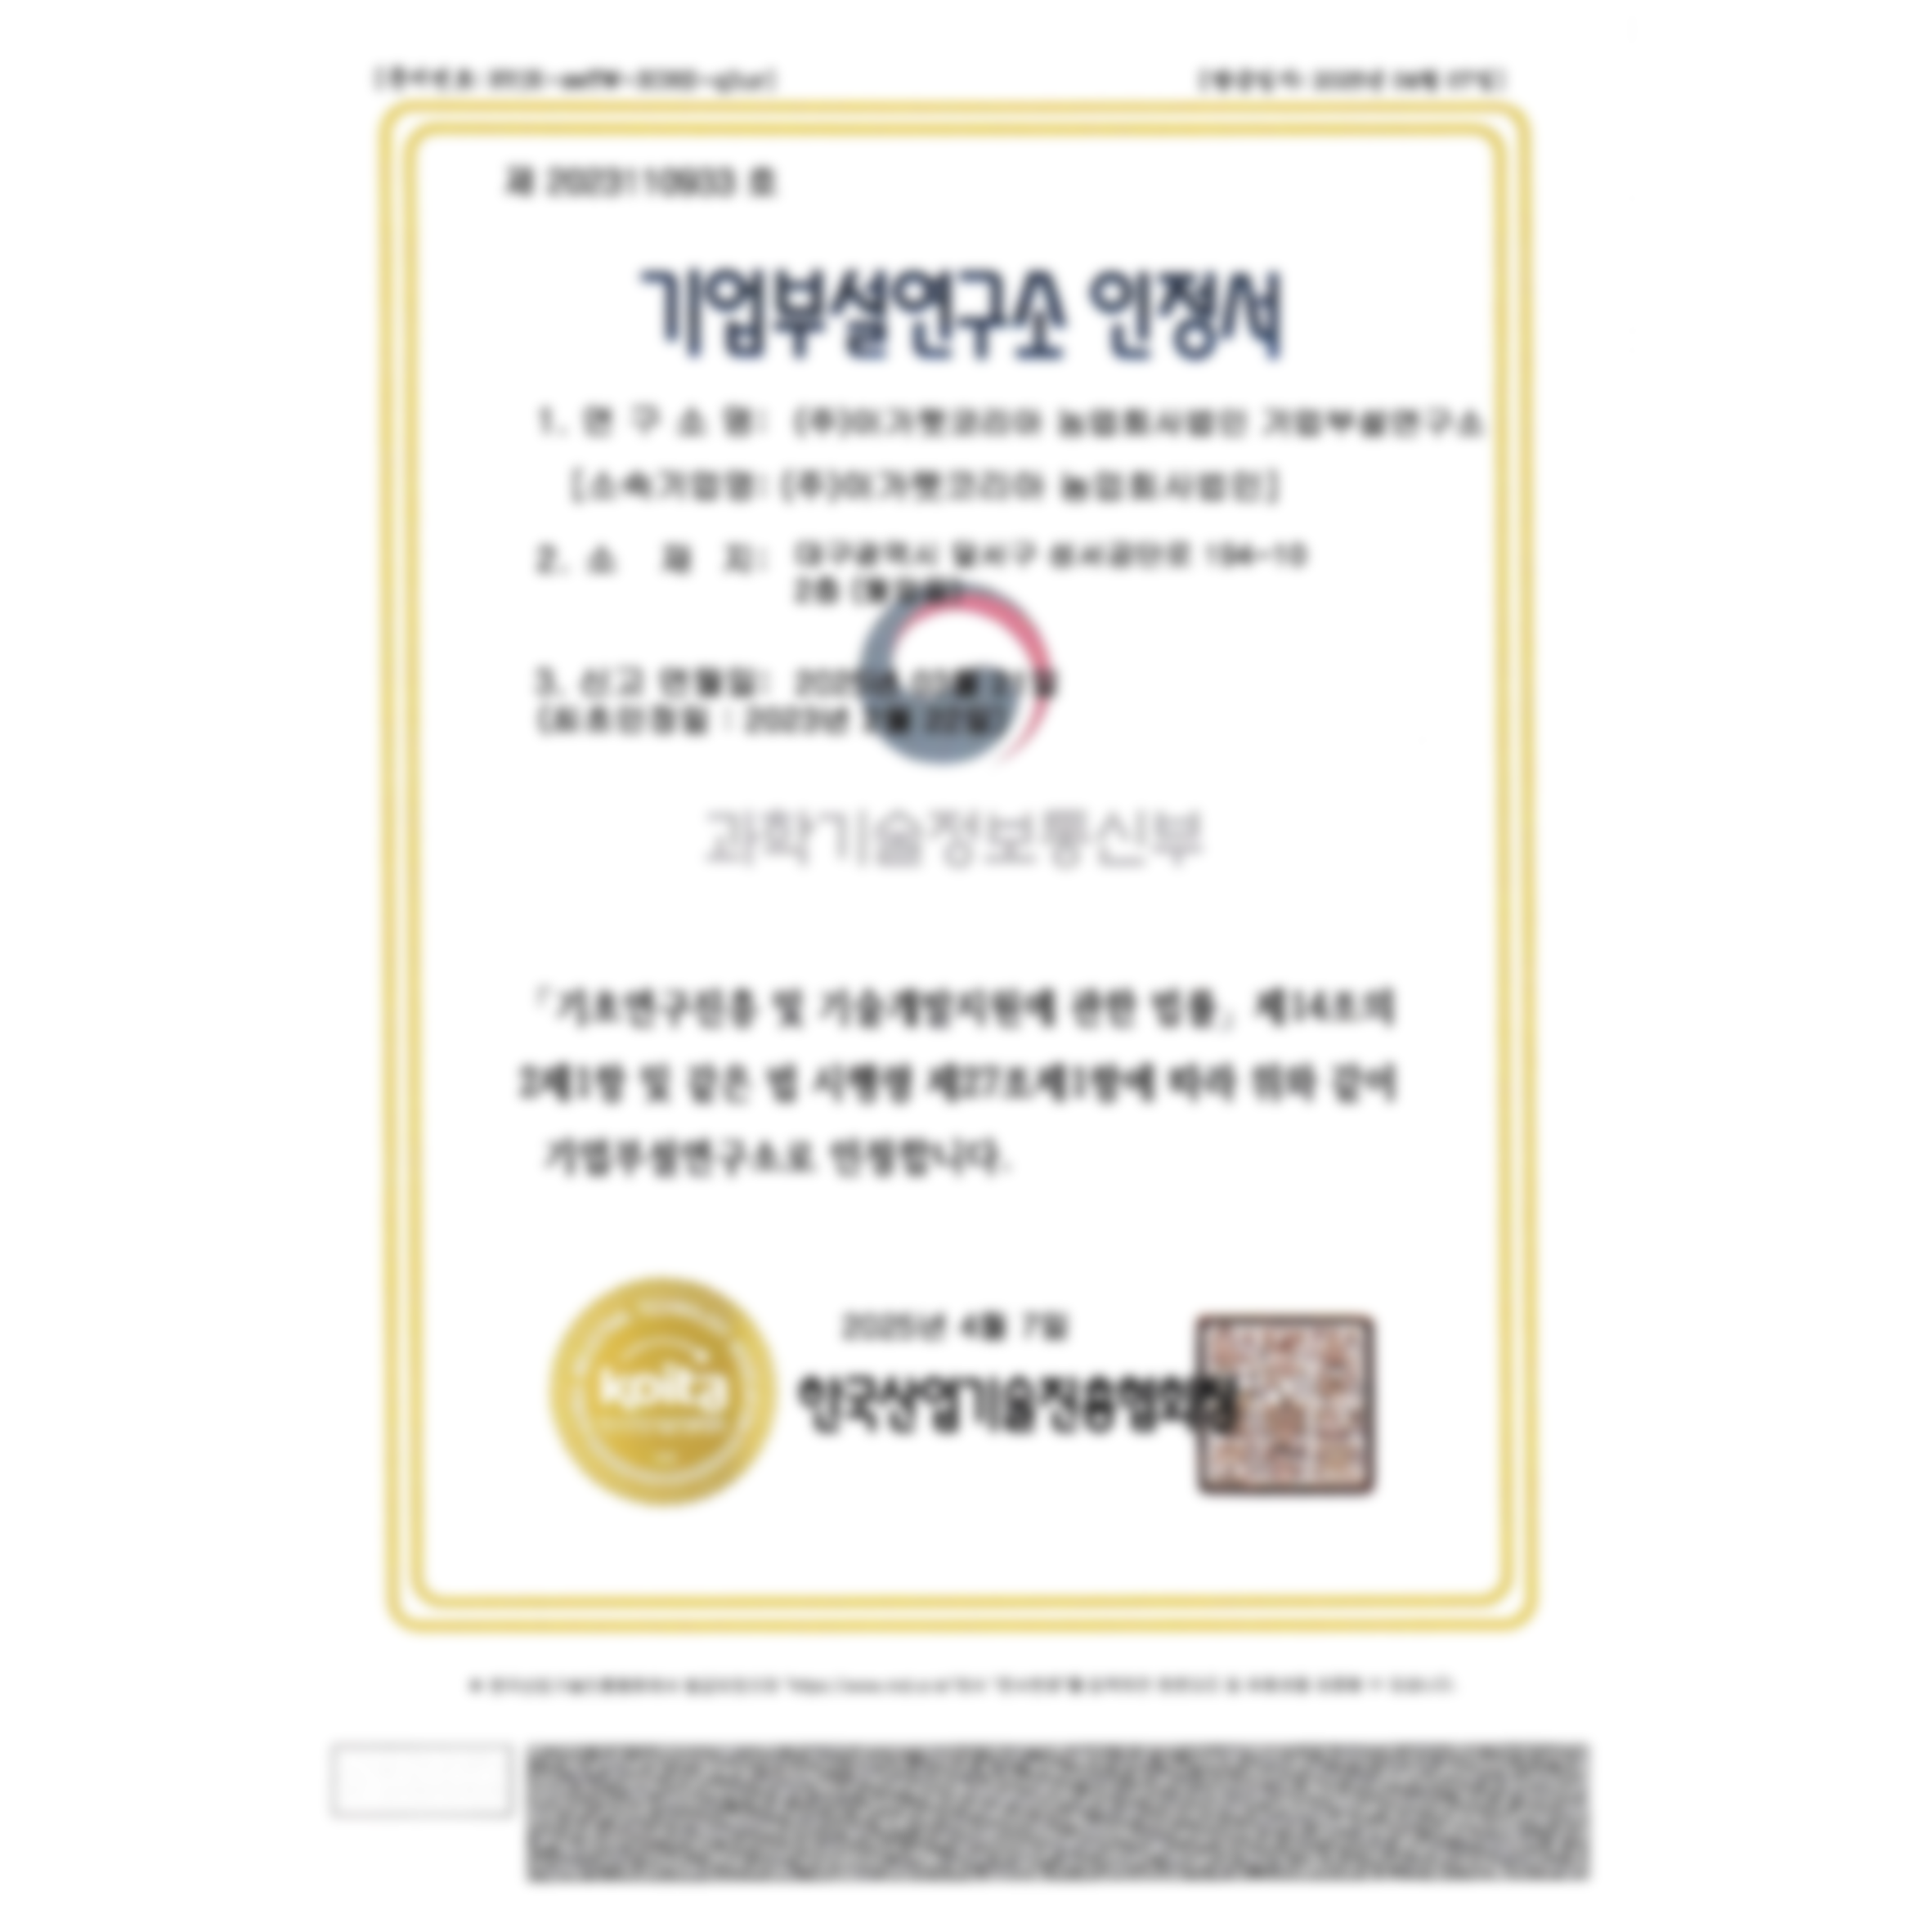
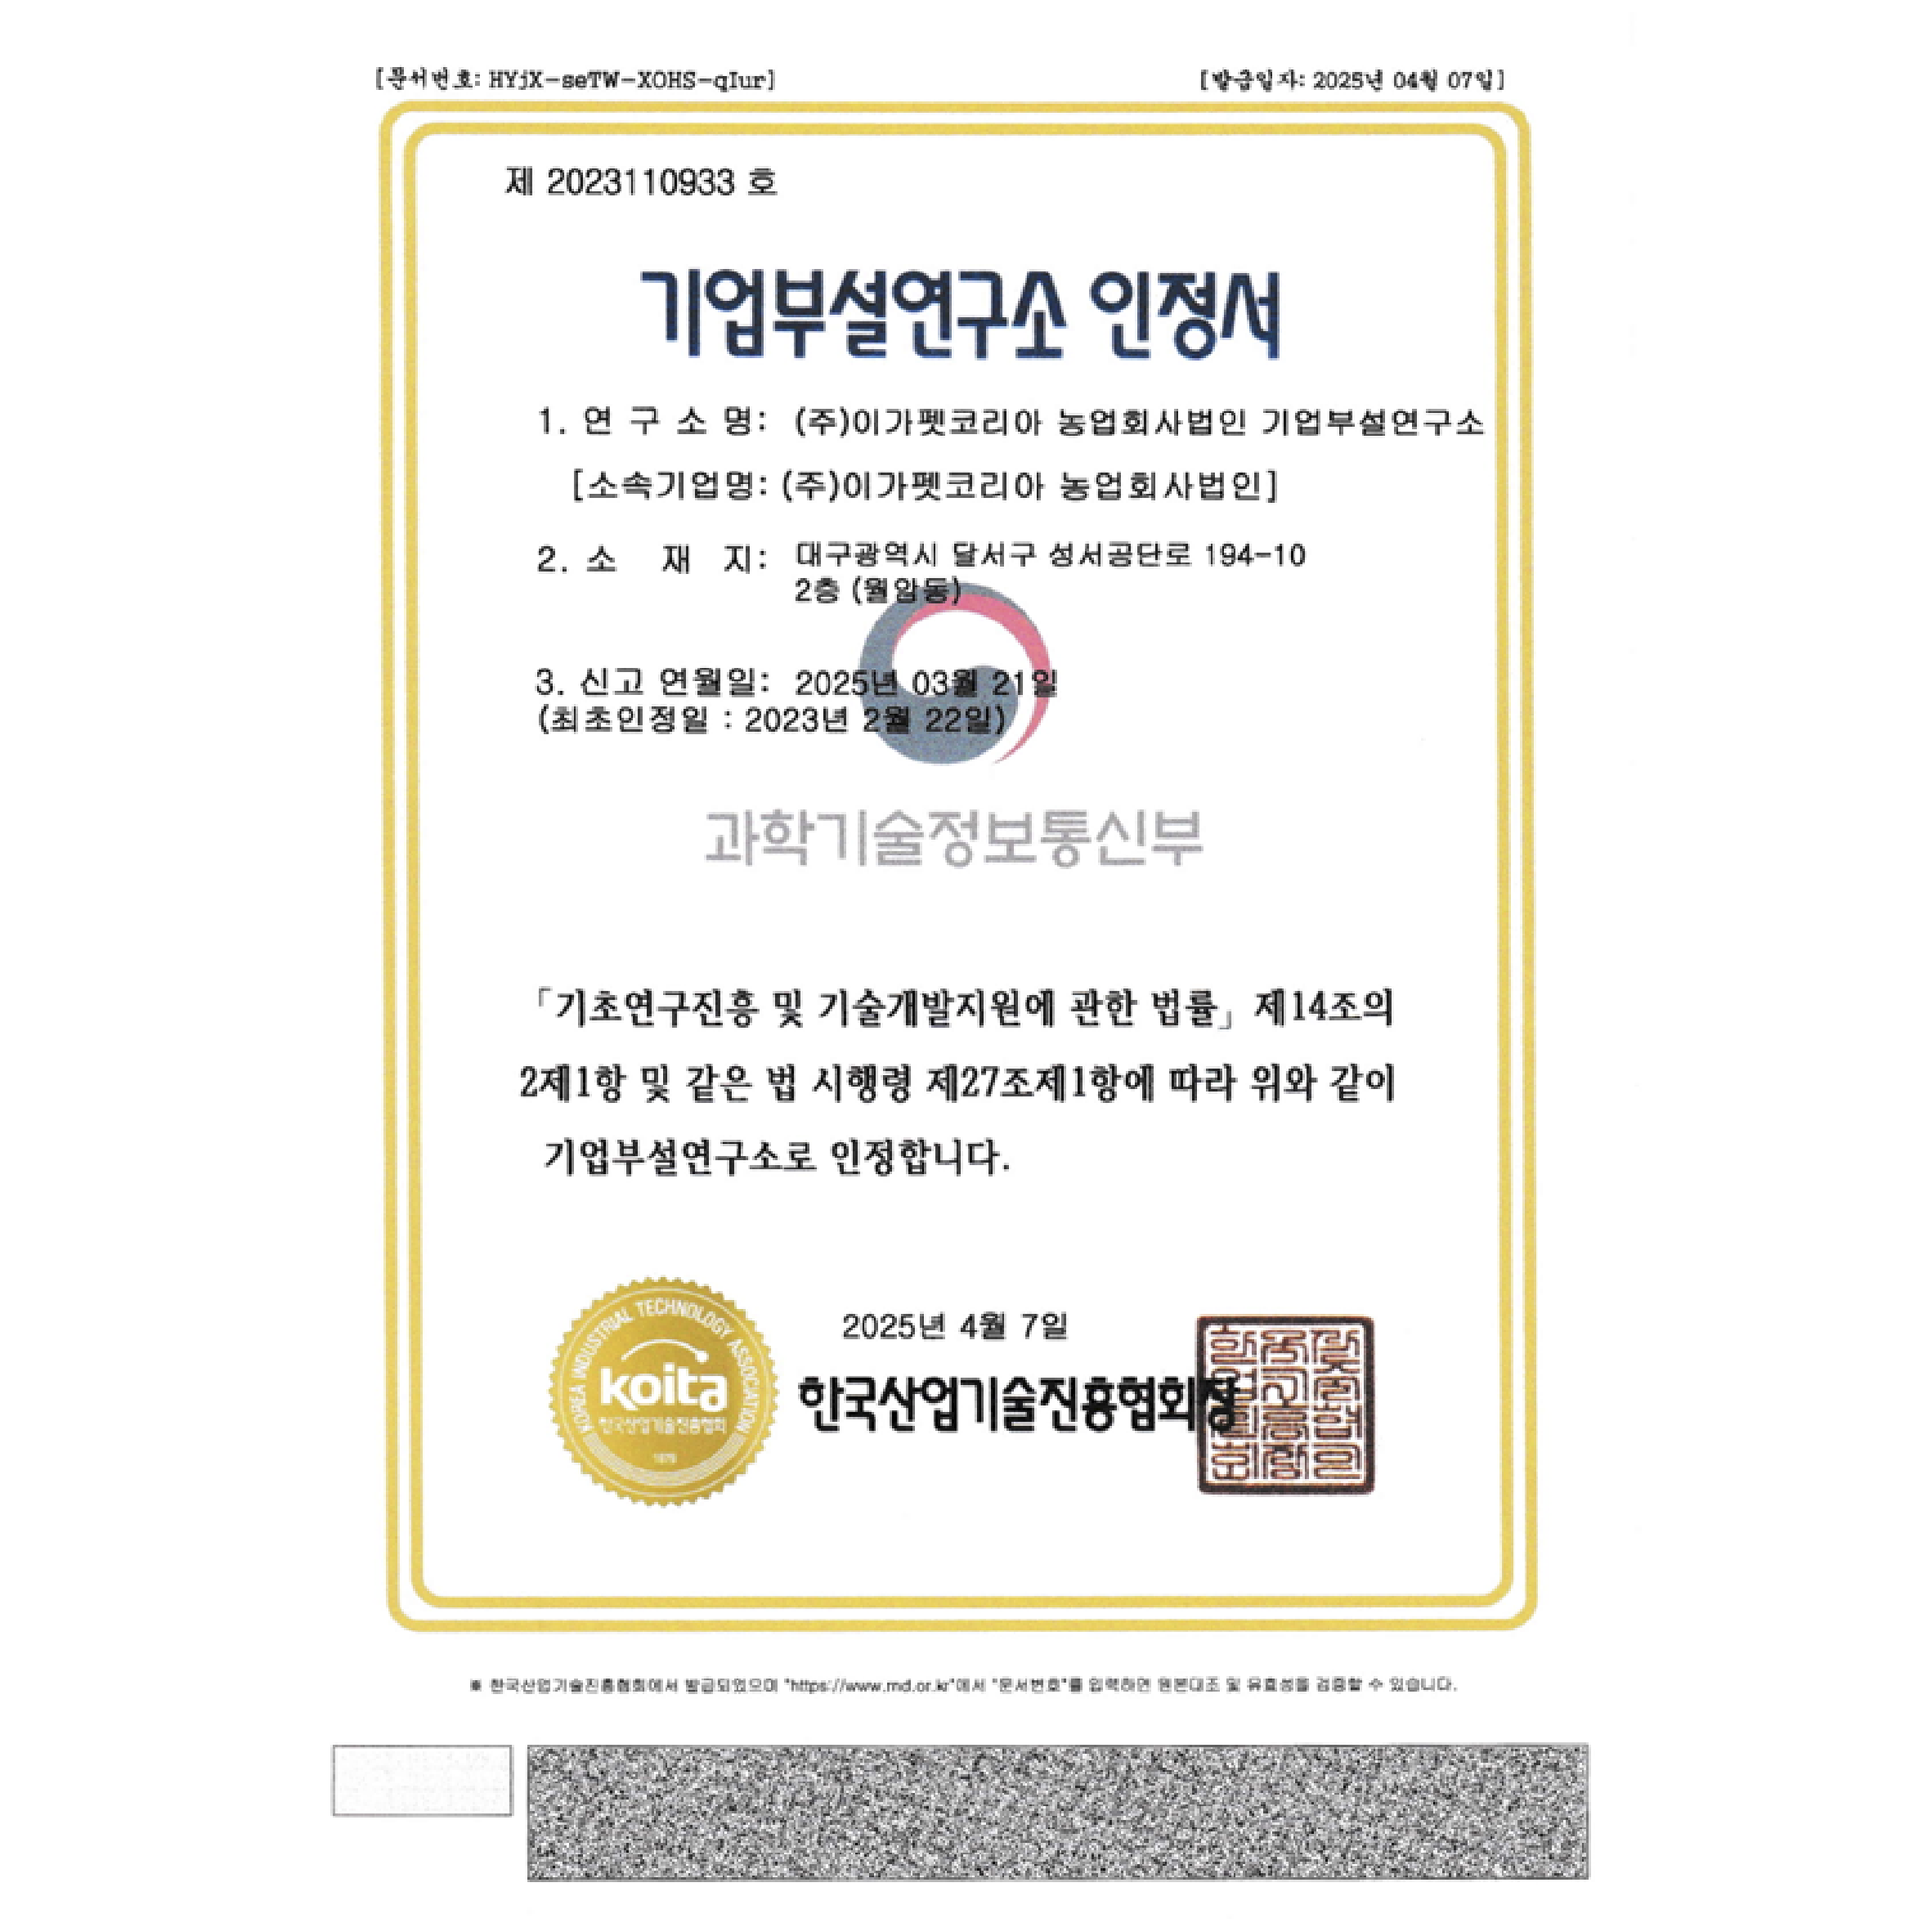
이가펫코리아 이미지 교체

Changed region(s): [[0.1854, 0.0309, 0.8341, 0.9886]]

diff --git a/egapet_korea/index.html b/egapet_korea/index.html
@@ -106,7 +106,7 @@
           </p>
           <ul class="feature-list">
             <li data-aos="fade-up" data-aos-delay="200">
-              <img src="./assets/images/img_feature1.jpg" alt="A Trusted Pet Food Manufacturer" />
+              <img src="./assets/images/img_feature1.png" alt="A Trusted Pet Food Manufacturer" />
               <div class="txt">
                 <strong>A Trusted Pet Food Manufacturer</strong>
                 <p>
